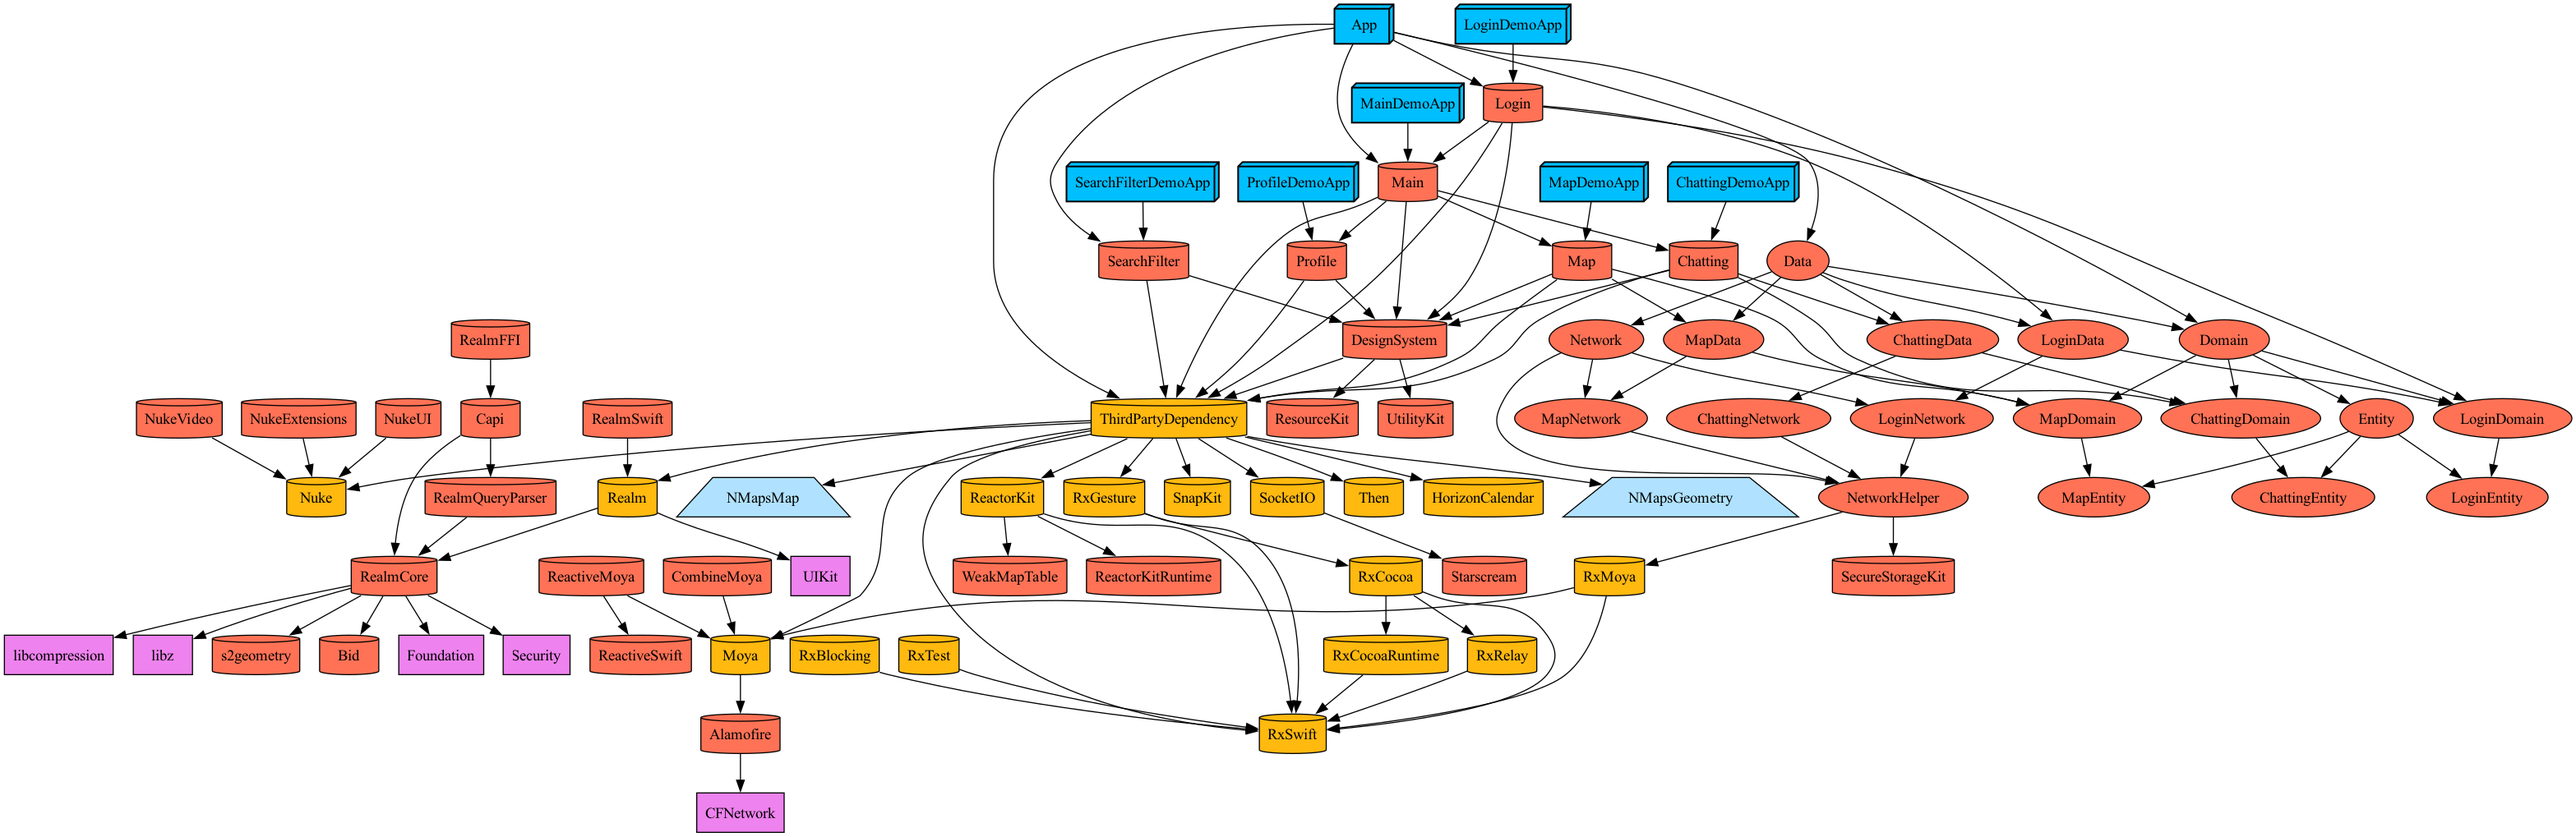
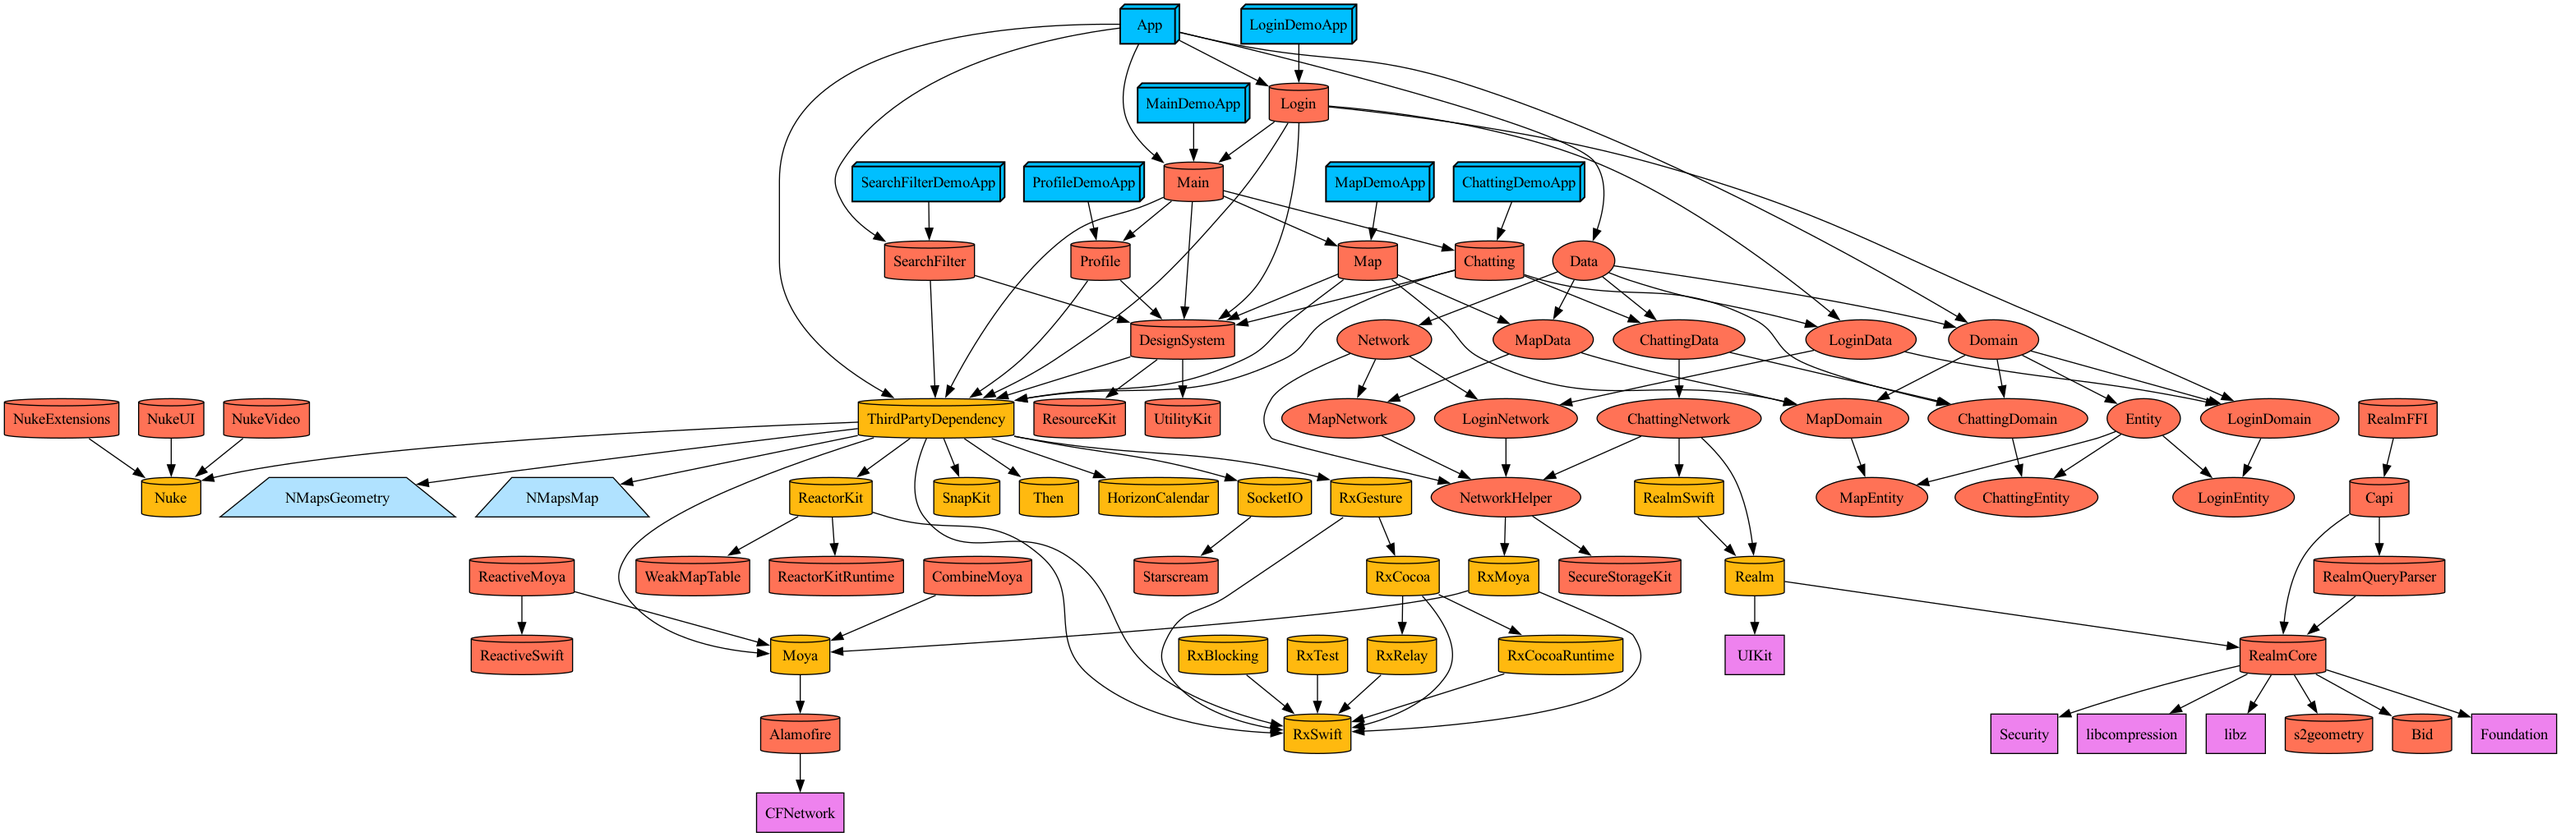
Merge branch 'dev' into Dong/Chatting/Soket

diff --git a/Plugins/ThirdPartyDependencyPlugin/ProjectDescriptionHelpers/ThirdPartyDependency+Project.swift b/Plugins/ThirdPartyDependencyPlugin/ProjectDescriptionHelpers/ThirdPartyDependency+Project.swift
@@ -26,7 +26,6 @@ public extension TargetDependency.ThirdParty {
     ReactorKit,
     HorizontalCalendar,
     SocketIO,
-    Realm,
     Nuke
   ]
   
@@ -51,5 +50,6 @@ extension TargetDependency.ThirdParty {
   static let HorizontalCalendar = TargetDependency.external(name: "HorizonCalendar")
   static let SocketIO = TargetDependency.external(name: "SocketIO")
   static let Realm = TargetDependency.external(name: "Realm")
+  static let RealmSwift = TargetDependency.external(name: "RealmSwift")
   static let Nuke = TargetDependency.external(name: "Nuke")
 }

diff --git a/Network/ChattingNetwork/Project.swift b/Network/ChattingNetwork/Project.swift
@@ -18,7 +18,8 @@ let project = Project.makeLibraryProject(
   iOSTargetVersion: "16.0",
   baseSetting: .init(),
   dependencies: [
-    .NetworkHelper.Main
+    .NetworkHelper.Main,
+    .external(name: "RealmSwift")
   ],
   isDynamic: false,
   needTestTarget: false,

diff --git a/Tuist/Dependencies.swift b/Tuist/Dependencies.swift
@@ -33,6 +33,7 @@ let thirdPartySPM = SwiftPackageManagerDependencies(
     "HorizonCalendar": .framework,
     "SocketIO": .framework,
     "Realm": .framework,
+    "RealmSwift": .framework,
     "Nuke": .framework
   ]
 )
